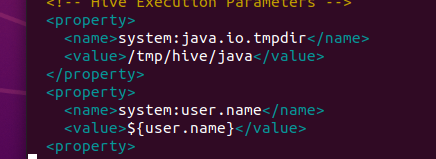
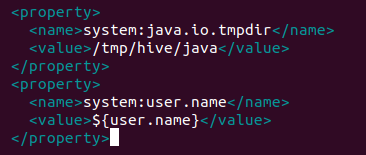
Docs: update hive TIL

Changed region(s): [[0.0, 0.0, 0.9317, 1.0], [0.7514, 0.0, 0.8115, 0.0516]]

diff --git a/TIL/hwangseonju/하이브_설치_환경설정.md b/TIL/hwangseonju/하이브_설치_환경설정.md
@@ -20,7 +20,8 @@
     
     ![Untitled](./img/하이브_설치_환경설정/Untitled.png)
     
-    <br>
+
+<br>
 
 ### [ 하이브 환경설정 ]
 
@@ -127,7 +128,7 @@
     <property>
         <name>system:user.name</name>
         <value>${user.name}</value>
-    <property>
+    </property>
     ```
     
     ```bash
@@ -150,11 +151,18 @@ jdbc:derby:/home/hdoop/apache-hive-3.1.2-bin/metastore_db;databaseName=metastore
 
 ### [ derby database 시작 ]
 
+1. derby database 실행하기
+   
+    ```bash
+    $ $HIVE_HOME/bin/schematool -initSchema -dbType derby
+    ```
+    
+
 (오류발생)
 
 ![Untitled](./img/하이브_설치_환경설정/Untitled%207.png)
 
-(시도1 : 아직 오류 해결 못함)
+(시도1 : 오류 해결X, 상위 디렉토리가 같아야되는건 아닌것 같음, 그래도 한 디렉토리 내에서 관리하고 싶으면 옮겨도 나쁘진않을듯)
 
 - hadoop이 설치된 위치와 hive 설치 위치를 동일하게 변경시켜줌
 - hadoop 설치 위치 : /usr/local/hadoop
@@ -163,3 +171,96 @@ jdbc:derby:/home/hdoop/apache-hive-3.1.2-bin/metastore_db;databaseName=metastore
 ```bash
 $ sudo mv apache-hive-3.1.2-bin /usr/local/hive
 ```
+
+(해결방안)
+
+- .bashrc에 설정한 경로만 신경썼는데 hive-config.sh에 있는 hadoop 경로가 잘못 설정되어 있어서 수정하니 우선 실행은 됐음
+
+```bash
+$ nano $HIVE_HOME/bin/hive-config.sh
+```
+
+![Untitled](./img/하이브_설치_환경설정/Untitled%208.png)
+
+1-2. 1번 실행시에 아래와 같은 오류가 발생한다면?
+
+(오류발생)
+
+![Untitled](./img/하이브_설치_환경설정/Untitled%209.png)
+
+(원인)
+
+- $HIVE_HOME/lib에 있는 라이브러리들 중에 guava version는 19.0
+- $HADOOP_HOME/share/hadoop/hdfs/lib에 있는 라이브러리들 중 guava version은 27.0
+
+→ hadoop과 hive의 guava version 호환성 문제때문에 발생한 오류이기 때문
+
+(해결방안)
+
+- Hive의 guava를 제거한 후 Hadoop에 있는 guava를 복사하기
+
+```bash
+$ rm HIVE_HOME/lib/guava-19.0.jar
+$ cp $HADOOP_HOME/share/hadoop/hdfs/lib/guava-27.0-jre.jar $HIVE_HOME/lib/
+```
+
+1-3. 1-2번 오류 수정후 재시작을 하면 아래와 같은 또 다른 오류 발생하면..?
+
+(오류 발생)
+
+![Untitled](./img/하이브_설치_환경설정/Untitled%2010.png)
+
+(해결방안)
+
+- 해당 위치로 가서 아래와 같이 보이는 특수문자를 제거
+  
+    (위치 찾는 단축키 :  ctrl+shift+-(마이너스)
+    
+    ![Untitled](./img/하이브_설치_환경설정/Untitled%2011.png)
+    
+
+1-3. 드디어 실행되나 싶었지만 오류가 났다
+
+(오류 발생)
+
+- 초반에 hive 위치를 바꾸기전에 설정해둔 경로들에서 오류가 난 듯 하다...^^
+
+![Untitled](./img/하이브_설치_환경설정/Untitled%2012.png)
+
+(해결 방안)
+
+- hive, hadoop 경로를 설정했던 모든 부분을 수정한다.
+
+1. 드디어 실행 성공!!!!
+
+![Untitled](./img/하이브_설치_환경설정/Untitled%2013.png)
+
+<br>
+
+### [ Hive Client Shell 시작 ]
+
+1. hive 밑에 bin 디렉토리로 이동하기
+   
+    ```bash
+    $ cd $HIVE_HOME/bin
+    ```
+    
+2. 실행하기
+   
+    ```bash
+    $ hive
+    ```
+    
+    ![Untitled](./img/하이브_설치_환경설정/Untitled%2014.png)
+    
+
+<br>
+
+<br>
+
+📚 **References**
+
+ ⭐ [https://spidyweb.tistory.com/215](https://spidyweb.tistory.com/215)
+
+- [https://m.blog.naver.com/PostView.nhn?isHttpsRedirect=true&blogId=bea66gle&logNo=220819145604](https://m.blog.naver.com/PostView.nhn?isHttpsRedirect=true&blogId=bea66gle&logNo=220819145604)
+- [https://velog.io/@jodawooooon/BigData-UbuntuEC2에-Hive-3.1.2를-설치해보자](https://velog.io/@jodawooooon/BigData-UbuntuEC2%EC%97%90-Hive-3.1.2%EB%A5%BC-%EC%84%A4%EC%B9%98%ED%95%B4%EB%B3%B4%EC%9E%90)
